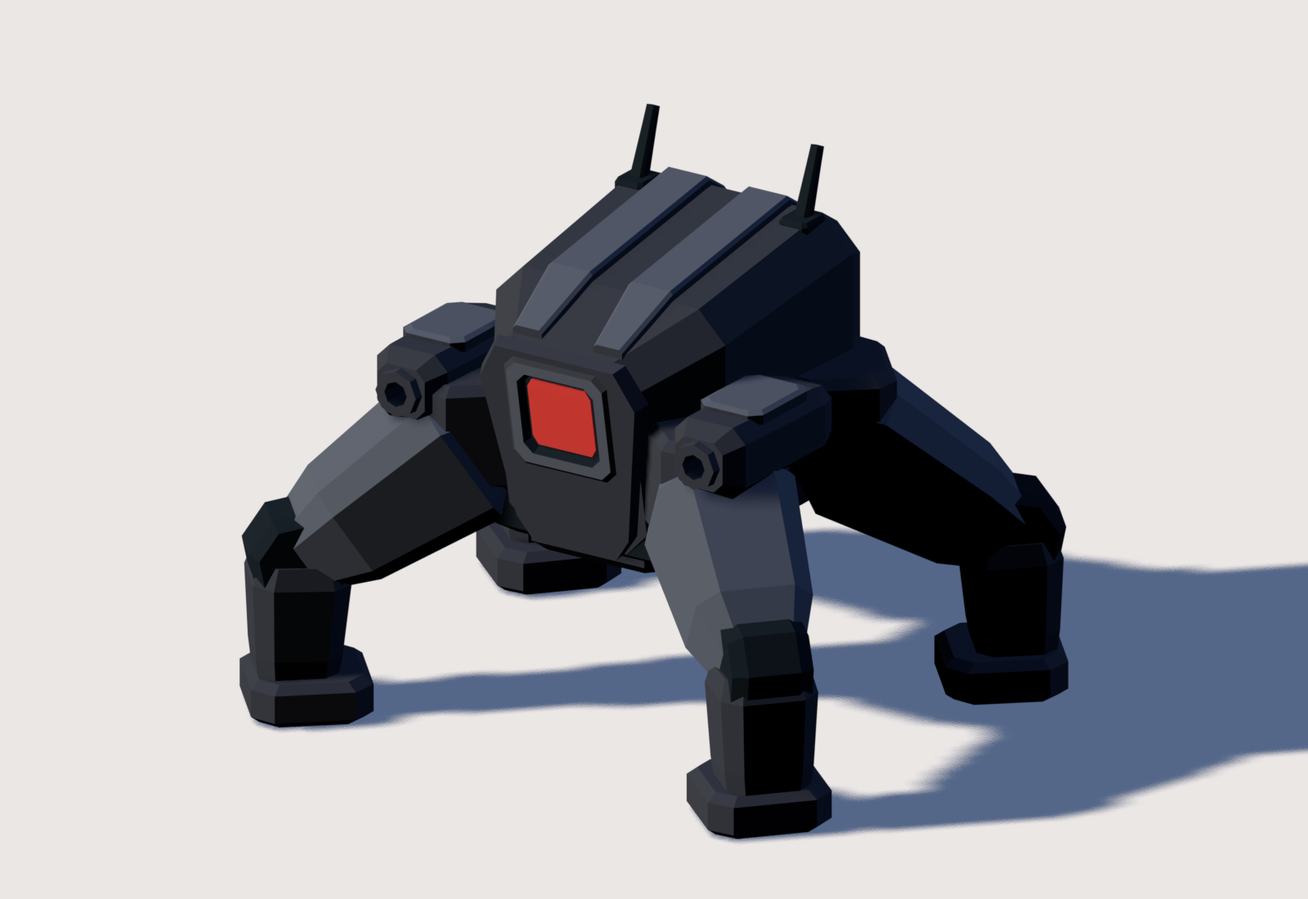
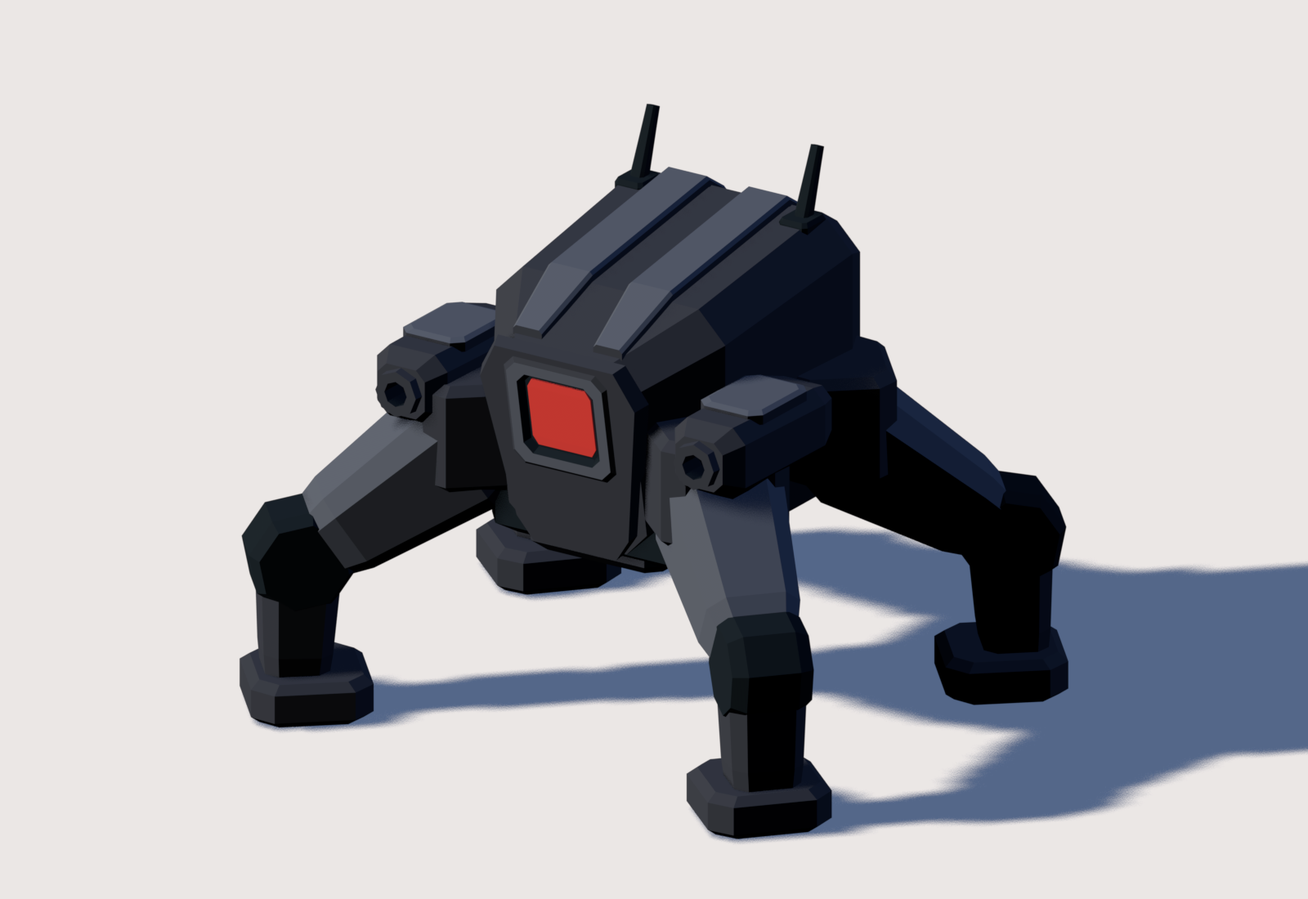
Taper C robot leg armour and narrow its shins

diff --git a/apple/sources/content/RobotModelGeometry.swift b/apple/sources/content/RobotModelGeometry.swift
@@ -10,7 +10,7 @@ enum RobotModelGeometry {
   }
 
   // Combat offsets use game axes, facing -z. Gun 0 is the source's left gun.
-  static let bodyRadius: Float = 1.298624
+  static let bodyRadius: Float = 1.219415
   static let halfHeight: Float = 1.234272
   static let navigationRadius: Float = 2.067892
   static let gunMounts: [SIMD3<Float>] = [

diff --git a/blender/assets/spider-bot-heavy/README.md b/blender/assets/spider-bot-heavy/README.md
@@ -1,6 +1,6 @@
 # spider-bot-heavy
 
-**Status:** The original C form and motion were accepted, integrated and delivered in TestFlight build 29. After refining its body, legs, colours and cannon size, the maintainer authorised a Blender finish pass guided by the [concept comparison](../../../art/robot/finish-study/README.md). This source and its four PNG previews now show actual recessed-sensor and stepped-armour geometry, awaiting visual review. Its full check and fresh rendered first-fight test pass (35/35). The preceding charcoal/smaller-cannon revision at `2df4b45` passed the full check and rendered first-fight test (35/35); those results do not validate this later geometry pass. It is not merged or released. A remains a possible later different-weapon variant, outside this task. Camera B remains approved.
+**Status:** The original C form and motion were accepted, integrated and delivered in TestFlight build 29. The maintainer subsequently assigned body, colour/cannon and [modelled finish](../../../art/robot/finish-study/README.md) refinements, then requested thinner legs. This source and its four PNG previews now show the assigned narrower upper-leg armour and shins, retaining the recessed sensor and stepped plates. The current full check, fresh authoring audits and rendered first-fight check pass (35/35); visual review remains pending. The armour revision at `1695503` passed the full check and rendered first-fight (35/35), before this leg reduction. This refinement is not merged or released. A remains a possible later different-weapon variant, outside this task. Camera B remains approved.
 
 ![Actual Blender render of the C heavy walker](preview.png)
 
@@ -13,9 +13,11 @@ The earlier [spider-bot](../spider-bot/README.md) remains a rejected historical 
 
 The self-contained `spider-bot-heavy` collection uses metres, stands on z = 0 at its centred origin and faces Blender −y. Its **41 mesh Objects share 17 unique Mesh datablocks**, with **2,556 evaluated triangles and five materials**. Reuse is an authoring property, not measured runtime instancing or draw calls.
 
-The first refinement added a tapered face, sloping roof panels, integrated cannon housings with recessed bores, and stouter knees, lower legs and feet. The accepted body pass extends the rear shell by **0.20 m**, raises its roof peak by **0.13 m** and narrows the face by **14%**. Antenna meshes are reseated **0.14 m rearward and 0.12 m upward**. The later cannon reduction scaled the housing, top plate and barrel to **88% of their former dimensions**, moving both muzzle markers from local y **−0.66 to −0.5808 m** (game z **−0.94 to −0.8608 m**). The current finish pass retains that body, leg geometry and reduced cannon bodies/barrels. The six shared leg-component meshes still have four users each.
+The first refinement added a tapered face, sloping roof panels, integrated cannon housings with recessed bores, and stouter knees, lower legs and feet. The accepted body pass extends the rear shell by **0.20 m**, raises its roof peak by **0.13 m** and narrows the face by **14%**. Antenna meshes are reseated **0.14 m rearward and 0.12 m upward**. The later cannon reduction scaled the housing, top plate and barrel to **88% of their former dimensions**, moving both muzzle markers from local y **−0.66 to −0.5808 m** (game z **−0.94 to −0.8608 m**). The later finish pass retained that body and reduced cannon bodies/barrels. The current leg reduction preserves those parts, joint/foot geometry and the rig. The six shared leg-component meshes still have four users each.
 
-The new mask has a closed sensor pocket: a **5 cm** broad frame, lip **16 mm** proud of the former face plane and floor **21 mm** deep. The **10 mm** thick red pane sits with its front **12 mm** behind that original plane, or **28 mm** behind the raised lip, retaining its full front outline. Roof plates are **60 mm** thick instead of 24 mm, with their lower edges seated and tops raised 36 mm; the paired cannon top plates gain 22 mm in mesh z. These changes affect four mesh datablocks—mask, sensor, roof ridge and cannon top plate—and add 64 triangles. The other 13 meshes, including the torso, six leg components, cannon housings and barrels, remain unchanged. Object transforms, actions, muzzle markers and material colours are unchanged. Shoulder construction reads through the cannon plates; leg/socket covers are preserved.
+The finish pass at `1695503` added a closed sensor pocket: a **5 cm** broad frame, lip **16 mm** proud of the former face plane and floor **21 mm** deep. The **10 mm** thick red pane sits with its front **12 mm** behind that original plane, or **28 mm** behind the raised lip, retaining its full front outline. Roof plates are **60 mm** thick instead of 24 mm, with their lower edges seated and tops raised 36 mm; the paired cannon top plates gain 22 mm in mesh z. That pass changed four mesh datablocks—mask, sensor, roof ridge and cannon top plate—and added 64 triangles, preserving its other 13 meshes, object transforms, actions, muzzle markers and material colours. Shoulder construction reads through the cannon plates; leg/socket covers were preserved.
+
+The current leg pass changes only the shared upper-leg and shin meshes. Upper-leg transverse XY factors are **1.00 / 0.85 / 0.80 / 0.80** at local z **0 / 0.1717 / 0.7676 / 1.01 m**: the hip edge stays seated, the main bulge narrows 15% and the knee end narrows 20%. Shin XY dimensions narrow **20%** throughout. All z coordinates, link lengths, stance, joint/foot geometry, the other 15 meshes, object transforms, parents, actions, muzzles and material colours are unchanged. No further slimming is assigned.
 
 All four legs use the same six shared meshes: socket armour, hip hinge, upper armour, knee hinge, lower link and foot. Editing a component's Mesh in Edit Mode updates its four instances. Moving or posing an Object affects that instance only. Neutral left/right geometry mirrors across x = 0, including material assignments. Proper rotations place each assembly; object scales stay positive and unit. Independently posed legs during a step do not alter this shared geometry.
 
@@ -63,27 +65,29 @@ Firing plants all four feet before recoil starts. Both guns use matching stroke/
 
 ## Review and validation
 
-The retained [30-second motion reel](motion-preview.mp4) is a **historical accepted-rig reference showing the earlier 2,428-triangle form and colours**, not the current refinement. It presents separate labelled shots: walk at 0–8 s, turn left at 8–16 s, turn right at 16–24 s, brace/fire/recover at 24–30 s. It is H.264, 960 × 720, 24 fps, with 720 decoded frames. The current [hero preview](preview.png), [side profile](side-preview.png) and [view beside Miki](scale-preview.png) show the actual recessed sensor and stepped armour geometry. The [camera B study](camera-b-preview.png) uses the approved offset `[0, 56, 44]` with the existing **15.4° combat lens**, Miki 8 m from the guard, a 3 m camera lean and target height 0.95 m. The normal lens remains 22°. These PNGs are Blender studies, not Simulator screenshots.
+The retained [30-second motion reel](motion-preview.mp4) is a **historical accepted-rig reference showing the earlier 2,428-triangle form and colours**, not the current refinement. It presents separate labelled shots: walk at 0–8 s, turn left at 8–16 s, turn right at 16–24 s, brace/fire/recover at 24–30 s. It is H.264, 960 × 720, 24 fps, with 720 decoded frames. The current [hero preview](preview.png), [side profile](side-preview.png) and [view beside Miki](scale-preview.png) show the actual narrower legs, recessed sensor and stepped armour geometry. The [camera B study](camera-b-preview.png) uses the approved offset `[0, 56, 44]` with the existing **15.4° combat lens**, Miki 8 m from the guard, a 3 m camera lean and target height 0.95 m. The normal lens remains 22°. These PNGs are Blender studies, not Simulator screenshots.
 
 They use the bridge's two suns and an authoring exposure of +0.7. Ground, Miki, lights and cameras exist only in unsaved render copies. Public PNG metadata is removed without changing pixels. The Blender source and movie use Git LFS; PNGs below 1 MiB use ordinary Git under the [storage policy](../../../CONTRIBUTING.md#git-lfs-and-cloning).
 
 **Historical motion-study checks, before this refinement:** `./scripts/check` passed contracts, 51 Blender tests, sound fingerprints, Swift formatting, the shared app build and hosted Simulator tests. Independent saved-file inspection sampled 7,204 poses at 240 Hz, including half-key subframes: stance drift stayed below 0.029 mm, stance yaw drift below 0.000060°, foot tilt below 0.0053° and sole penetration below 0.012 mm. Joint gaps were zero; link-length error was below 0.00000023 m. Neutral geometry/material symmetry error was below 0.00000029 m and mirrored-turn error below 0.0000036 m. Shared-data identity, positive unit scales, topology, part contact, materials, muzzle placement, intake and privacy checks passed. Sampled rendered poses were inspected; all 720 movie frames decoded successfully. Prior static checks remain historical in the [prototype plan](../../../docs/prototype-plan.md#concept-c-proportion-study).
 
-**Earlier authoring checks:** Independent saved-file audits at `0148131` confirmed closed manifold meshes, positive volumes, neutral geometry/material symmetry and unchanged leg/gun geometry, pivots, actions and muzzle transforms. The leg-motion audit sampled 7,265 poses: sole penetration remained below 0.012 mm, stance sole-height error below 0.029 mm and foot tilt below 0.0053°. Audits of the charcoal/smaller-cannon revision at `2df4b45` then verified the uniform 88% scaling, matched muzzle tips, preserved rig and material export. Those earlier checks do not validate the new mask pocket or stepped plates. The current finish audit confirms all 13 protected meshes, object transforms, actions/keys, muzzle markers and material colours are unchanged. Seventy-five sampled rays from face-normal, hero and camera-B directions hit the red pane; four rim rays hit slate, with no hidden front cap. These are authoring checks, not phone-performance or visual-acceptance evidence.
+**Authoring checks:** Saved-file audits at `0148131` checked mesh closure, volumes, symmetry and preserved rig data; `2df4b45` checked 88% cannon scaling, muzzle tips and materials. The finish audit at `1695503` confirmed its 13 protected meshes and rig/material data; 75 sampled rays from face-normal, hero and camera-B directions hit the red pane, four rim rays hit slate, with no hidden front cap. Those are historical revision checks.
+
+A fresh audit of the narrower legs samples **7,265 changed-skin poses**, with minimum armour clearance **77.8 mm**. All **96 joint/boot contact checks** retain intersection; link-cap centres stay within **0.000274 mm** of their intended endpoints. The 15 protected meshes, all object/parent transforms, rig/actions, material colours and every z coordinate match the preceding revision. The older dense sole proof remains applicable **only to the feet**, whose meshes, rig and keys are identical: penetration below 0.012 mm, stance-height error below 0.029 mm and tilt below 0.0053°. These are authoring checks, not phone-performance or visual-acceptance evidence.
 
 The maintainer accepted this source motion and assigned bridge integration. The [first-tower record](../../../docs/encounters/bridge-spider-bot.md) describes the initial gameplay choices and remaining balance questions.
 
 | File | Size in bytes | Storage |
 |---|---:|---|
-| `spider-bot-heavy.blend` | 1,722,387 | Git LFS |
+| `spider-bot-heavy.blend` | 1,722,366 | Git LFS |
 | `motion-preview.mp4` | 1,274,401 | Git LFS |
-| `preview.png` | 371,257 | Ordinary Git |
-| `scale-preview.png` | 455,554 | Ordinary Git |
-| `camera-b-preview.png` | 116,839 | Ordinary Git |
-| `side-preview.png` | 277,092 | Ordinary Git |
+| `preview.png` | 378,654 | Ordinary Git |
+| `scale-preview.png` | 467,847 | Ordinary Git |
+| `camera-b-preview.png` | 117,441 | Ordinary Git |
+| `side-preview.png` | 273,179 | Ordinary Git |
 
 ## Runtime integration
 
 The [runtime USDZ](../../../apple/sources/content/models/spider-bot-heavy.usdz) retains this model's CC BY 4.0 credit and changes. `RobotModelGeometry.swift` is generated alongside it, with both outputs fingerprinted against this Blender source. The output keeps the named leg pivots, gun mounts and muzzle markers; other models retain their existing export path. Runtime stepping follows actual translation and turning, rather than the authoring timeline's travel or reset frames. A remains a later variation, not an extra runtime model.
 
-For the original form shipped in build 29, the standard check, loaded-model joint/muzzle tests and rendered first-fight (35/35), retry (15/15) and full opening (56/56) passed. Runtime gait uses a 1° stop-turn-advance gate and earlier stepping so tested patrol/combat feet remain reachable, with independent FK/stance errors below 0.002 mm. The first refinement at `3d5d810`, body pass at `0148131` and charcoal/smaller-cannon revision at `2df4b45` each passed the full check and rendered first-fight (35/35), with no failures or companion warnings. The current recessed-sensor/armour source and export pass the full check, including the real-USDZ joint/muzzle tests; a fresh rendered first-fight test passes (35/35), with six emitted shots and zero failures or companion warnings. Source/runtime fingerprints stayed unchanged through verification. Its generated `RobotModelGeometry.swift` is byte-identical to `2df4b45`, preserving all body/navigation measurements and muzzle transforms. See the [runtime verification](../../../docs/prototype-plan.md#c-body-proportions--awaiting-visual-review). No new TestFlight delivery is claimed. The authoring audits above are not measurements of runtime gait or physical-phone performance.
+For the original form shipped in build 29, the standard check, loaded-model joint/muzzle tests and rendered first-fight (35/35), retry (15/15) and full opening (56/56) passed. Runtime gait uses a 1° stop-turn-advance gate and earlier stepping so tested patrol/combat feet remain reachable, with independent FK/stance errors below 0.002 mm. The first refinement at `3d5d810`, body pass at `0148131` and charcoal/smaller-cannon revision at `2df4b45` each passed the full check and rendered first-fight (35/35), with no failures or companion warnings. The recessed-sensor/armour revision at `1695503` also passed the full check and rendered first-fight (35/35), with six emitted shots, zero failures or companion warnings and frozen source/runtime fingerprints; its generated measurements matched `2df4b45`. The current narrower-leg source and export pass the full check, including the real-USDZ joint/muzzle tests; a fresh rendered first-fight check passes (35/35), with six emitted shots, zero failures or companion warnings and recorded recovery, defeat and Restart. Source/runtime fingerprints match through verification. Its generated body radius changes **1.298624 → 1.219415 m**. Navigation radius **2.067892 m**, half-height **1.234272 m** and all other generated measurements, including muzzles, remain unchanged. See the [runtime verification](../../../docs/prototype-plan.md#c-body-proportions--awaiting-visual-review). No new TestFlight delivery is claimed. The authoring audits above are not measurements of runtime gait or physical-phone performance.

diff --git a/docs/prototype-plan.md b/docs/prototype-plan.md
@@ -112,13 +112,15 @@ The follow-up review for [PR #134](https://github.com/RonildoBraga/lauder/pull/1
 
 ### C body proportions — awaiting visual review
 
-**Body and leg proportions retained; modelled finish review pending.** After build 29 was delivered, the maintainer assigned improvements to bring the robot closer to concept C. A first refinement revised the mask, roof, cannon housings and legs. The accepted body pass then extended the rear shell +0.20 m, raised the roof peak +0.13 m and narrowed the face 14%, with the antenna meshes reseated +0.14 m rearward and +0.12 m upward. The charcoal/smaller-cannon revision at `2df4b45` uses face `#30343E`, sensor `#C83C38` and 88% cannon dimensions. It moved the muzzle markers from local y −0.66 to −0.5808 m (game z −0.94 to −0.8608 m). The subsequent assigned finish pass below preserves those proportions, rig and muzzle transforms. The current [Blender source and four PNG previews](../blender/assets/spider-bot-heavy/README.md) have 41 mesh Objects, 17 shared Mesh datablocks, five matte non-emissive materials and 2,556 triangles; the six leg-component meshes still have four users each.
+**Slimmer legs implemented; visual review pending.** After build 29 was delivered, the maintainer assigned improvements to bring the robot closer to concept C. A first refinement revised the mask, roof, cannon housings and legs. The accepted body pass then extended the rear shell +0.20 m, raised the roof peak +0.13 m and narrowed the face 14%, with the antenna meshes reseated +0.14 m rearward and +0.12 m upward. The charcoal/smaller-cannon revision at `2df4b45` uses face `#30343E`, sensor `#C83C38` and 88% cannon dimensions. It moved the muzzle markers from local y −0.66 to −0.5808 m (game z −0.94 to −0.8608 m). The subsequent finish pass preserved those proportions, rig and muzzle transforms; the current assigned leg reduction below retains the body, finish and rig. The current [Blender source and four PNG previews](../blender/assets/spider-bot-heavy/README.md) have 41 mesh Objects, 17 shared Mesh datablocks, five matte non-emissive materials and 2,556 triangles; the six leg-component meshes still have four users each.
 
-The body-pass authoring audits at `0148131` confirmed mesh closure, positive volumes, symmetry, protected leg/gun geometry and preserved rig data. The 7,265-pose leg-motion audit remains applicable to the unchanged legs and keys. The colour/cannon audit at `2df4b45` verified 88% scaling, matched muzzle tips, preserved rig and material export; it does not validate the later sensor pocket or plate geometry. The current PNGs, including a side profile, show that actual modelled finish. The camera-B study uses the existing 15.4° combat lens, offset `[0, 56, 44]`, Miki 8 m from the guard and a 3 m lean towards it, at target height 0.95 m. The previews use the bridge lights and +0.7 authoring exposure and are Blender studies rather than Simulator screenshots. The retained movie shows the earlier accepted form and its original burgundy/pale colours.
+The body-pass authoring audits at `0148131` confirmed mesh closure, positive volumes, symmetry, protected leg/gun geometry and preserved rig data. The older 7,265-pose sole audit remains applicable only to the unchanged foot meshes, rig and keys, not to the revised upper-leg/shin armour. The colour/cannon audit at `2df4b45` verified 88% scaling, matched muzzle tips, preserved rig and material export; it does not validate the later sensor pocket or plate geometry. The current PNGs, including a side profile, show the actual narrower legs and modelled finish. The camera-B study uses the existing 15.4° combat lens, offset `[0, 56, 44]`, Miki 8 m from the guard and a 3 m lean towards it, at target height 0.95 m. The previews use the bridge lights and +0.7 authoring exposure and are Blender studies rather than Simulator screenshots. The retained movie shows the earlier accepted form and its original burgundy/pale colours.
 
 The first refinement at `3d5d810` passed `./scripts/check`, including source/release contracts, 52 Blender tests, sounds, formatting, the app build and hosted Swift Testing with the real-USDZ joint/muzzle and foot regressions. Its rendered `first-fight` passed **35/35**, with zero failures or companion warnings; movement, turns, actual bursts, recovery, defeat and Restart were recorded and frames inspected. Mean frame time was **16.7 ms**, p99 **16.8 ms**, maximum **115.1 ms** on Simulator; these are historical first-refinement results, not verification of the later revisions or phone performance. Runtime/source fingerprints matched that validation. Its generated navigation radius was **2.067892 m** (about 3 mm larger), and body radius **1.298624 m**. The body pass at `0148131` also passed the full check and a fresh rendered first-fight run (**35/35**) with no failures or companion warnings. Its source/runtime fingerprints matched throughout validation. Its only generated geometry change was half-height **1.234272 m** (+6 cm); body/navigation radii, joint lengths, muzzle transforms and all leg/gun geometry were unchanged from the first refinement. That Simulator run measured 16.7 ms mean, 16.8 ms p99 and 33.3 ms maximum. The charcoal/smaller-cannon revision at `2df4b45` passed `./scripts/check`: 13 contract tests, 28 offline release tests, 52 Blender tests, seven sound fingerprints, Swift formatting, the app build and hosted Swift Testing. Its rendered first-fight passed **35/35**, with zero failures or companion warnings and six emitted shots before defeat and Restart. That run measured **16.7 ms** mean, **16.8 ms** p99 and **50.0 ms** maximum on Simulator. These historical results do not verify the later recessed-sensor/armour geometry or phone performance.
 
-The maintainer subsequently authorised a Blender pass guided by the [finish concept comparison](../art/robot/finish-study/README.md). The implemented mask has a closed sensor pocket, 5 cm frame, lip 16 mm proud of the former face plane and floor 21 mm deep. Its 10 mm thick red pane has its front recessed 12 mm behind the original face plane, or 28 mm behind the raised lip, while retaining the full red front outline. Roof plates thicken from 24 to 60 mm, and the shared cannon top plates gain 22 mm in mesh z. Four mesh datablocks change—mask, sensor, roof ridge and cannon top plate—adding 64 triangles. The other 13 meshes, all object transforms, actions, muzzle markers and material colours are unchanged. The accepted leg/socket geometry is preserved; shoulder construction reads through the cannon plates. Generated geometry measurements remain byte-identical to `2df4b45`. The full check passes on this source/export, including 13 contract tests, 28 offline release tests, 52 Blender tests, seven sound fingerprints, formatting, the app build and hosted Swift Testing. A fresh rendered first-fight passed **35/35** in 73.0 s, with six emitted shots, zero failures or companion warnings, and the red sensor visible until disable. Mean frame time was **16.7 ms**, p99 **16.8 ms**, maximum **33.3 ms** on Simulator, not the phone. Source/runtime fingerprints stayed unchanged throughout verification. Independent auditing confirms the 13 protected meshes, transforms, actions/keys, muzzles and material colours are unchanged; 75 sampled rays from face-normal, hero and camera-B directions hit the red pane, four rim rays hit slate, and no hidden front cap occludes the pocket. The actual modelled result awaits visual review, merge and release; the AI image remains a reference rather than runtime evidence. Snow/wear is deferred.
+The finish pass at `1695503` followed the maintainer's assignment guided by the [finish concept comparison](../art/robot/finish-study/README.md). Its mask has a closed sensor pocket, 5 cm frame, lip 16 mm proud of the former face plane and floor 21 mm deep. Its 10 mm thick red pane has its front recessed 12 mm behind the original face plane, or 28 mm behind the raised lip, while retaining the full red front outline. Roof plates thicken from 24 to 60 mm, and the shared cannon top plates gain 22 mm in mesh z. Four mesh datablocks change—mask, sensor, roof ridge and cannon top plate—adding 64 triangles. That pass preserved the other 13 meshes, all object transforms, actions, muzzle markers and material colours, including leg/socket geometry; shoulder construction reads through the cannon plates. Its generated geometry matched `2df4b45`. The full check passed on that source/export, including 13 contract tests, 28 offline release tests, 52 Blender tests, seven sound fingerprints, formatting, the app build and hosted Swift Testing. A fresh rendered first-fight passed **35/35** in 73.0 s, with six emitted shots, zero failures or companion warnings, and the red sensor visible until disable. Mean frame time was **16.7 ms**, p99 **16.8 ms**, maximum **33.3 ms** on Simulator, not the phone. Source/runtime fingerprints stayed unchanged throughout verification. Independent auditing of that revision confirmed its 13 protected meshes, transforms, actions/keys, muzzles and material colours were unchanged; 75 sampled rays from face-normal, hero and camera-B directions hit the red pane, four rim rays hit slate, and no hidden front cap occludes the pocket. These are historical finish-pass results; the AI image remains a reference rather than runtime evidence. Snow/wear is deferred.
+
+The maintainer then requested a stronger leg reduction. The current source changes only the shared upper-leg and shin meshes: upper transverse XY factors **1.00 / 0.85 / 0.80 / 0.80** at local z **0 / 0.1717 / 0.7676 / 1.01 m**, and shin XY **0.80** throughout. The hip edge, all z coordinates, link lengths, stance, joints/feet, other 15 meshes, transforms/parents, actions, muzzles and materials remain unchanged. Counts remain **41 / 17 / 5 / 2,556** objects/meshes/materials/triangles. Generated body radius changes **1.298624 → 1.219415 m**; navigation radius **2.067892 m**, half-height **1.234272 m** and all other generated fields are unchanged. A fresh authoring audit sampled **7,265 changed-skin poses**, retaining at least **77.8 mm** armour clearance; all **96 joint/boot contact checks** retain intersection, with link-cap endpoint error below **0.000274 mm**. The full `./scripts/check` passes: 13 contracts, 28 offline release tests, 52 Blender tests, seven sound fingerprints, formatting, app build and hosted Swift Testing. A fresh rendered first-fight check passes **35/35** in **73.0 s**, with six emitted shots, zero failures or companion warnings, and recorded recovery, defeat and Restart. Mean frame time is **16.7 ms**, p99 **16.8 ms**, maximum **50.0 ms** on Simulator, not the phone. Source/runtime fingerprints match through verification. The actual slimmer-leg result awaits visual review, merge and release; no further slimming is assigned.
 
 ### Architecture checks
 
@@ -165,7 +167,7 @@ The build 26 tuning and measurements in [ADR 0016](decisions/0016-combat-balance
 
 ## Combat design review gate
 
-The original C first-tower runtime prototype is implemented and its source/Simulator checks passed for build 29. Review the assigned recessed-sensor and stepped-armour result in both the close view and camera B, with the accepted body proportions and leg geometry retained. Current verification is recorded above. Review whether the short loop is readable and enjoyable; source tests and Simulator success do not settle balance or phone performance. New scenes, A's variant and releases remain separate work.
+The original C first-tower runtime prototype is implemented and its source/Simulator checks passed for build 29. Review the assigned slimmer-leg result in both the close view and camera B, with the accepted body proportions, recessed sensor, stepped armour and smaller guns retained. Current verification is recorded above. Review whether the short loop is readable and enjoyable; source tests and Simulator success do not settle balance or phone performance. New scenes, A's variant and releases remain separate work.
 
 The broader squad combat direction, [The Quiet Yard](encounters/the-quiet-yard.md) and later narrative plans remain reference rather than assignments. The removed S4 experiments stay retired.
 

diff --git a/README.md b/README.md
@@ -18,7 +18,7 @@ The latest TestFlight delivery is the bridge-only prototype with the Blender env
 
 **Camera and robot, 23 November 2026:** Camera B remains approved: offset `[0, 56, 44]`, 22° lens. C's retained [motion reel](blender/assets/spider-bot-heavy/motion-preview.mp4) records the earlier accepted form and rig studies. Runtime geometry and joint/muzzle measurements come from Blender; fixed-step combat owns decisions and the presenter poses the loaded parts from actual movement and firing. The original standard check and rendered Simulator guard, retry and full-opening routes passed; the [prototype plan](docs/prototype-plan.md#c-robot-on-the-bridge) records that evidence for TestFlight build 29. Physical-phone behaviour and performance remain unverified.
 
-**C modelled finish, pending review:** The maintainer authorised a Blender pass guided by the [finish study](art/robot/finish-study/README.md). The current [source and four PNG previews](blender/assets/spider-bot-heavy/README.md) have a real recessed red-sensor pocket and stepped roof/cannon plates, retaining the accepted body proportions, plain legs, smaller guns, five matte materials and rig/muzzle transforms. The preceding charcoal/smaller-cannon revision at `2df4b45` passed the full check and rendered first-fight test (35/35); this later geometry pass also passes the full check and a fresh rendered first-fight test (35/35). Its visual review, merge and release remain pending. Build 29 retains the previous form. A's later variation remains deferred.
+**C slimmer legs, pending review:** Following the modelled [finish study](art/robot/finish-study/README.md), the maintainer requested a stronger leg reduction. The current [source and four PNG previews](blender/assets/spider-bot-heavy/README.md) narrow the upper-leg armour by 15–20% below the unchanged hip edge and the shins by 20%, retaining the accepted body, recessed red sensor, smaller guns, joint/foot geometry, five matte materials and rig/muzzle transforms. The preceding armour revision at `1695503` passed the full check and rendered first-fight test (35/35). This leg revision passes the full check, fresh authoring audits and a new rendered first-fight check (35/35). Visual review, merge and release remain pending. Build 29 retains the previous form. A's later variation remains deferred.
 
 **C style study:** The AI-generated [finish study](art/robot/finish-study/README.md) supplied the direction for the assigned Blender pass. It remains a visual reference, separate from the actual mesh and its verification. Snow and wear remain deferred.
 

diff --git a/docs/visual-direction.md b/docs/visual-direction.md
@@ -81,7 +81,7 @@ The rejected first robot blockout used asset-specific matte materials from the e
 
 After accepting the refined body and legs, the maintainer requested removal of the reddish-brown face colour and a red sensor. The current [C source and previews](../blender/assets/spider-bot-heavy/README.md) use **charcoal face `#30343E`**, matching the armour, and **red sensor `#C83C38`**. Armour, slate facets and joints otherwise retain the values above. Materials remain matte, with roughness 1, metallic 0 and emission 0; the red square adds no light or glow effect. This finish and the 12% smaller cannons await visual review. Historical artwork, movie colours and build 29 are unchanged.
 
-The maintainer subsequently authorised a Blender pass guided by the AI-generated [finish study](../art/robot/finish-study/README.md): a real recessed sensor socket and clearer stepped/chamfered roof and cannon plates. That geometry is now modelled and awaits visual review. The full red front outline, body proportions, leg/socket geometry, reduced gun bodies/barrels, structural symmetry, shared components and five matte materials remain. Shoulder construction is expressed through the cannon plates rather than reshaping the leg covers. The concept image remains a visual reference; completed source/Simulator verification of the actual mesh is recorded in the [model README](../blender/assets/spider-bot-heavy/README.md). Snow/wear is deferred.
+The maintainer subsequently authorised a Blender pass guided by the AI-generated [finish study](../art/robot/finish-study/README.md): a real recessed sensor socket and clearer stepped/chamfered roof and cannon plates. That geometry is modelled. The maintainer then requested a stronger leg reduction: the current upper-leg armour narrows 15% at its main bulge and 20% towards the knee, below the unchanged hip edge; shins narrow 20%. This slimmer-leg result awaits visual review. The full red front outline, body proportions, socket/joint/foot geometry, reduced gun bodies/barrels, structural symmetry, shared components and five matte materials remain. Shoulder construction is expressed through the cannon plates rather than reshaping the leg covers. The concept image remains a visual reference; revision-specific authoring and Simulator verification is recorded in the [model README](../blender/assets/spider-bot-heavy/README.md). No further leg reduction is assigned. Snow/wear is deferred.
 
 ## Light and shadow
 
